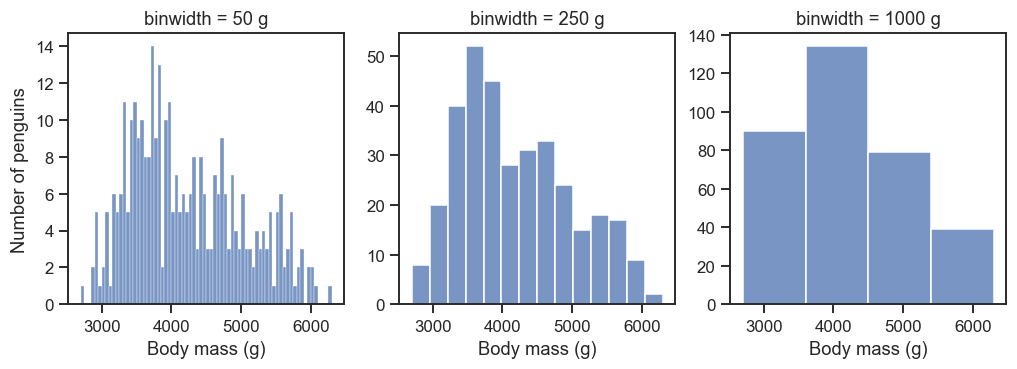
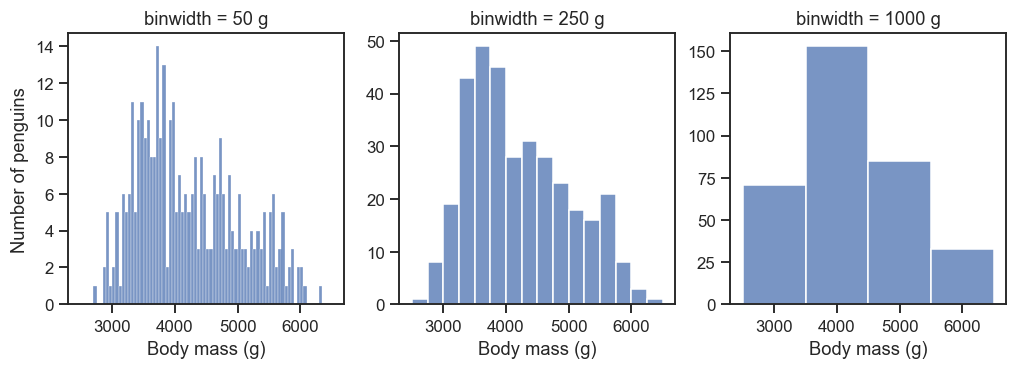
Exact bin widths in Lesson 2; exercise checkers reject raw axis labels
Fixes the two Low findings the previous commit recorded as left alone.

L13 seaborn 0.13 turns binwidth= into a whole number of bins across the
    data's range, so the Lesson 2 panel titled "binwidth = 1000 g" drew
    900 g bins. The example now passes binrange=(2500, 6500), which makes
    all three widths exact, and the text explains the argument and the
    rounding. The instructor guide lists it as a misconception.
L14 Exercises 3.2, 5.1 and 6.1 looked for "mm" in an axis label, which
    the raw column names already contain, and 4.2 ignored its y label.
    Each checker now also rejects an underscore, and the brief of 3.2
    asks for the label its checker expects.

New tests: every exercise that asks for plain-English labels must give a
hint when the raw names are put back on its solution, and each bin-width
panel must draw the width its title names. REVIEW.md marks L13 and L14 as
fixed and records L15 (exercise 2.2 checks neither its palette nor its
printed answer) as left alone. Site and instructor guide rebuilt.
77 tests pass.

diff --git a/docs/02-distributions.html b/docs/02-distributions.html
@@ -56,12 +56,13 @@
 <p>Seaborn picks a bin width for you. It&rsquo;s a reasonable guess, but still a guess. Here are three choices side by side. <code>plt.subplots</code> makes a row of empty Axes, and each seaborn call draws into one of them with <code>ax=</code> (Lesson 6 covers this properly):</p>
 <div class="cell" data-cell><div class="highlight"><pre><span></span><span class="n">fig</span><span class="p">,</span> <span class="n">axes</span> <span class="o">=</span> <span class="n">plt</span><span class="o">.</span><span class="n">subplots</span><span class="p">(</span><span class="mi">1</span><span class="p">,</span> <span class="mi">3</span><span class="p">,</span> <span class="n">figsize</span><span class="o">=</span><span class="p">(</span><span class="mi">11</span><span class="p">,</span> <span class="mf">3.2</span><span class="p">),</span> <span class="n">sharey</span><span class="o">=</span><span class="kc">False</span><span class="p">)</span>
 <span class="k">for</span> <span class="n">ax</span><span class="p">,</span> <span class="n">width</span> <span class="ow">in</span> <span class="nb">zip</span><span class="p">(</span><span class="n">axes</span><span class="p">,</span> <span class="p">[</span><span class="mi">50</span><span class="p">,</span> <span class="mi">250</span><span class="p">,</span> <span class="mi">1000</span><span class="p">]):</span>
-    <span class="n">sns</span><span class="o">.</span><span class="n">histplot</span><span class="p">(</span><span class="n">data</span><span class="o">=</span><span class="n">penguins</span><span class="p">,</span> <span class="n">x</span><span class="o">=</span><span class="s2">&quot;body_mass_g&quot;</span><span class="p">,</span> <span class="n">binwidth</span><span class="o">=</span><span class="n">width</span><span class="p">,</span> <span class="n">ax</span><span class="o">=</span><span class="n">ax</span><span class="p">)</span>
+    <span class="n">sns</span><span class="o">.</span><span class="n">histplot</span><span class="p">(</span><span class="n">data</span><span class="o">=</span><span class="n">penguins</span><span class="p">,</span> <span class="n">x</span><span class="o">=</span><span class="s2">&quot;body_mass_g&quot;</span><span class="p">,</span> <span class="n">binwidth</span><span class="o">=</span><span class="n">width</span><span class="p">,</span>
+                 <span class="n">binrange</span><span class="o">=</span><span class="p">(</span><span class="mi">2500</span><span class="p">,</span> <span class="mi">6500</span><span class="p">),</span> <span class="n">ax</span><span class="o">=</span><span class="n">ax</span><span class="p">)</span>
     <span class="n">ax</span><span class="o">.</span><span class="n">set</span><span class="p">(</span><span class="n">title</span><span class="o">=</span><span class="sa">f</span><span class="s2">&quot;binwidth = </span><span class="si">{</span><span class="n">width</span><span class="si">}</span><span class="s2"> g&quot;</span><span class="p">,</span> <span class="n">xlabel</span><span class="o">=</span><span class="s2">&quot;Body mass (g)&quot;</span><span class="p">,</span> <span class="n">ylabel</span><span class="o">=</span><span class="s2">&quot;&quot;</span><span class="p">)</span>
 <span class="n">axes</span><span class="p">[</span><span class="mi">0</span><span class="p">]</span><span class="o">.</span><span class="n">set_ylabel</span><span class="p">(</span><span class="s2">&quot;Number of penguins&quot;</span><span class="p">)</span>
 </pre></div>
-<script type="application/json" class="cell-data">{"code": "fig, axes = plt.subplots(1, 3, figsize=(11, 3.2), sharey=False)\nfor ax, width in zip(axes, [50, 250, 1000]):\n    sns.histplot(data=penguins, x=\"body_mass_g\", binwidth=width, ax=ax)\n    ax.set(title=f\"binwidth = {width} g\", xlabel=\"Body mass (g)\", ylabel=\"\")\naxes[0].set_ylabel(\"Number of penguins\")"}</script><div class="cell-toolbar"><button type="button" class="btn-ghost" data-action="edit" title="Open this example in a live Python editor">Edit &amp; run</button></div><figure class="cell-figure"><img src="img/02-binwidths.png" alt="Three histograms of body mass: 50 g bins look noisy, 250 g bins show two humps, 1,000 g bins hide the shape entirely." loading="lazy"></figure><div class="cell-live"></div></div>
-<p>Narrow bins show noise. Very wide bins wash out the two humps. Try a few widths, and pick one that shows real structure without inventing any. You can set <code>binwidth=</code> or <code>bins=</code> (a count).</p>
+<script type="application/json" class="cell-data">{"code": "fig, axes = plt.subplots(1, 3, figsize=(11, 3.2), sharey=False)\nfor ax, width in zip(axes, [50, 250, 1000]):\n    sns.histplot(data=penguins, x=\"body_mass_g\", binwidth=width,\n                 binrange=(2500, 6500), ax=ax)\n    ax.set(title=f\"binwidth = {width} g\", xlabel=\"Body mass (g)\", ylabel=\"\")\naxes[0].set_ylabel(\"Number of penguins\")"}</script><div class="cell-toolbar"><button type="button" class="btn-ghost" data-action="edit" title="Open this example in a live Python editor">Edit &amp; run</button></div><figure class="cell-figure"><img src="img/02-binwidths.png" alt="Three histograms of body mass: 50 g bins look noisy, 250 g bins show two humps, 1,000 g bins hide the shape entirely." loading="lazy"></figure><div class="cell-live"></div></div>
+<p>Narrow bins show noise. Very wide bins wash out the two humps. Try a few widths, and pick one that shows real structure without inventing any. You can set <code>binwidth=</code> or <code>bins=</code> (a count). <code>binrange=</code> pins where the first bin starts and the last one ends. Without it, seaborn fits a whole number of bins between the smallest and largest value, so the width you get is only close to the one you asked for: <code>binwidth=1000</code> on its own would draw four 900 g bins here.</p>
 <h2 id="compare-groups-layer-dont-stack">Compare groups: layer, don&rsquo;t stack</h2>
 <div class="cell" data-cell><div class="highlight"><pre><span></span><span class="n">ax</span> <span class="o">=</span> <span class="n">sns</span><span class="o">.</span><span class="n">histplot</span><span class="p">(</span><span class="n">data</span><span class="o">=</span><span class="n">penguins</span><span class="p">,</span> <span class="n">x</span><span class="o">=</span><span class="s2">&quot;body_mass_g&quot;</span><span class="p">,</span> <span class="n">hue</span><span class="o">=</span><span class="s2">&quot;species&quot;</span><span class="p">,</span>
                   <span class="n">palette</span><span class="o">=</span><span class="n">PENGUIN_COLORS</span><span class="p">,</span> <span class="n">multiple</span><span class="o">=</span><span class="s2">&quot;stack&quot;</span><span class="p">)</span>

diff --git a/docs/06-polish.html b/docs/06-polish.html
@@ -233,7 +233,7 @@ ax = sns.scatterplot(data=penguins, x=&quot;bill_length_mm&quot;, y=&quot;bill_d
 <figure class="cell-figure"><img src="img/sol-6.1.png" alt="Solution chart for exercise 6.1" loading="lazy"></figure>
     <button type="button" class="btn-ghost" data-action="load-solution">Load solution into editor</button>
   </details>
-  <script type="application/json" class="cell-data">{"starter": "# This chart works but says nothing. Make it deliberate:\n#  - back to the course's quiet theme: sns.set_theme(style=\"ticks\")\n#  - PENGUIN_COLORS for species, and drop the style= and size= encodings\n#  - no legend (label the species directly with ax.text if you like)\n#  - axis labels in plain English with units, and a title that states a finding\n#  - remove the top and right spines with sns.despine()\nsns.set_theme(style=\"darkgrid\")\nax = sns.scatterplot(data=penguins, x=\"bill_length_mm\", y=\"bill_depth_mm\",\n                     hue=\"species\", style=\"island\", size=\"body_mass_g\", palette=\"hsv\")", "solution": "sns.set_theme(style=\"ticks\")\nax = sns.scatterplot(data=penguins, x=\"bill_length_mm\", y=\"bill_depth_mm\",\n                     hue=\"species\", palette=PENGUIN_COLORS, legend=False)\nfor species, (x, y) in {\"Adelie\": (33, 21.6), \"Chinstrap\": (52, 21.2),\n                        \"Gentoo\": (54, 14.0)}.items():\n    ax.text(x, y, species, color=PENGUIN_COLORS[species], fontweight=\"bold\")\nax.set(xlabel=\"Bill length (mm)\", ylabel=\"Bill depth (mm)\",\n       title=\"Each species has a bill shape of its own\")\nsns.despine()", "check": "ax = chart_axes()[0]\npts = points(ax)\nassert abs(pts[:, 0].mean() - penguins[\"bill_length_mm\"].mean()) < 0.5, \"Keep bill_length_mm on x and bill_depth_mm on y.\"\nassert near_color(PENGUIN_COLORS[\"Gentoo\"], colors_used(ax)), \"Swap the rainbow for palette=PENGUIN_COLORS.\"\nsizes = set().union(*[set(c.get_sizes()) for c in ax.collections])\nassert len(sizes) == 1, \"Drop size= - point size shouldn't encode anything here.\"\nassert ax.get_legend() is None, \"Remove the legend with legend=False (direct labels are optional).\"\nassert \"mm\" in ax.get_xlabel() and \"mm\" in ax.get_ylabel(), \"Use plain-English axis labels with units.\"\nassert len(ax.get_title()) >= 15, \"Add a title that states a finding.\"\nassert tuple(ax.get_facecolor()[:3]) == (1.0, 1.0, 1.0), \"Switch back to the quiet theme first: sns.set_theme(style='ticks').\"\nassert not ax.spines[\"top\"].get_visible() and not ax.spines[\"right\"].get_visible(), \"Call sns.despine() to remove the top and right spines.\"\nprint(\"From noise to message. Compare it with the starter - same data, very different chart.\")"}</script>
+  <script type="application/json" class="cell-data">{"starter": "# This chart works but says nothing. Make it deliberate:\n#  - back to the course's quiet theme: sns.set_theme(style=\"ticks\")\n#  - PENGUIN_COLORS for species, and drop the style= and size= encodings\n#  - no legend (label the species directly with ax.text if you like)\n#  - axis labels in plain English with units, and a title that states a finding\n#  - remove the top and right spines with sns.despine()\nsns.set_theme(style=\"darkgrid\")\nax = sns.scatterplot(data=penguins, x=\"bill_length_mm\", y=\"bill_depth_mm\",\n                     hue=\"species\", style=\"island\", size=\"body_mass_g\", palette=\"hsv\")", "solution": "sns.set_theme(style=\"ticks\")\nax = sns.scatterplot(data=penguins, x=\"bill_length_mm\", y=\"bill_depth_mm\",\n                     hue=\"species\", palette=PENGUIN_COLORS, legend=False)\nfor species, (x, y) in {\"Adelie\": (33, 21.6), \"Chinstrap\": (52, 21.2),\n                        \"Gentoo\": (54, 14.0)}.items():\n    ax.text(x, y, species, color=PENGUIN_COLORS[species], fontweight=\"bold\")\nax.set(xlabel=\"Bill length (mm)\", ylabel=\"Bill depth (mm)\",\n       title=\"Each species has a bill shape of its own\")\nsns.despine()", "check": "ax = chart_axes()[0]\npts = points(ax)\nassert abs(pts[:, 0].mean() - penguins[\"bill_length_mm\"].mean()) < 0.5, \"Keep bill_length_mm on x and bill_depth_mm on y.\"\nassert near_color(PENGUIN_COLORS[\"Gentoo\"], colors_used(ax)), \"Swap the rainbow for palette=PENGUIN_COLORS.\"\nsizes = set().union(*[set(c.get_sizes()) for c in ax.collections])\nassert len(sizes) == 1, \"Drop size= - point size shouldn't encode anything here.\"\nassert ax.get_legend() is None, \"Remove the legend with legend=False (direct labels are optional).\"\nassert \"mm\" in ax.get_xlabel() and \"mm\" in ax.get_ylabel() and \"_\" not in ax.get_xlabel() + ax.get_ylabel(), \"Use plain-English axis labels with units, e.g. 'Bill length (mm)'.\"\nassert len(ax.get_title()) >= 15, \"Add a title that states a finding.\"\nassert tuple(ax.get_facecolor()[:3]) == (1.0, 1.0, 1.0), \"Switch back to the quiet theme first: sns.set_theme(style='ticks').\"\nassert not ax.spines[\"top\"].get_visible() and not ax.spines[\"right\"].get_visible(), \"Call sns.despine() to remove the top and right spines.\"\nprint(\"From noise to message. Compare it with the starter - same data, very different chart.\")"}</script>
 </div>
 
 

diff --git a/docs/03-categories.html b/docs/03-categories.html
@@ -203,6 +203,7 @@ ax = sns.barplot(data=penguins, x=&quot;species&quot;, y=&quot;flipper_length_mm
   <textarea class="cell-editor" rows="6" spellcheck="false" autocapitalize="off"
     aria-label="Code editor for exercise 3.2"># Box plot of bill_depth_mm by species (PENGUIN_COLORS, no legend),
 # with every penguin overlaid as small black dots using stripplot(ax=ax).
+# Label the y-axis in plain English, with units.
 ax = sns.boxplot(data=penguins, x=&quot;species&quot;, y=&quot;bill_depth_mm&quot;)</textarea>
   <div class="cell-toolbar">
     <button type="button" class="btn-primary" data-action="check">Run &amp; check</button>
@@ -220,7 +221,7 @@ ax = sns.boxplot(data=penguins, x=&quot;species&quot;, y=&quot;bill_depth_mm&quo
 <figure class="cell-figure"><img src="img/sol-3.2.png" alt="Solution chart for exercise 3.2" loading="lazy"></figure>
     <button type="button" class="btn-ghost" data-action="load-solution">Load solution into editor</button>
   </details>
-  <script type="application/json" class="cell-data">{"starter": "# Box plot of bill_depth_mm by species (PENGUIN_COLORS, no legend),\n# with every penguin overlaid as small black dots using stripplot(ax=ax).\nax = sns.boxplot(data=penguins, x=\"species\", y=\"bill_depth_mm\")", "solution": "ax = sns.boxplot(data=penguins, x=\"species\", y=\"bill_depth_mm\",\n                 hue=\"species\", palette=PENGUIN_COLORS, legend=False, fliersize=0)\nsns.stripplot(data=penguins, x=\"species\", y=\"bill_depth_mm\",\n              color=\"black\", size=3, alpha=0.5, ax=ax)\nax.set(xlabel=\"\", ylabel=\"Bill depth (mm)\", title=\"Gentoos have the shallowest bills\")", "check": "ax = chart_axes()[0]\nassert len(ax.patches) >= 3, \"Draw a box plot first.\"\npts = points(ax)\nassert len(pts) > 300, \"Overlay every penguin with sns.stripplot(..., ax=ax).\"\nassert near_color(PENGUIN_COLORS[\"Adelie\"], colors_used(ax), tol=0.15), \"Color the boxes by species: hue='species', palette=PENGUIN_COLORS.\"\nassert ax.get_legend() is None, \"The species names are already on the axis - pass legend=False.\"\nassert \"mm\" in ax.get_ylabel(), \"Label the y-axis with units.\"\nprint(\"Box for the summary, dots for the truth. Gentoo bills are clearly shallower.\")"}</script>
+  <script type="application/json" class="cell-data">{"starter": "# Box plot of bill_depth_mm by species (PENGUIN_COLORS, no legend),\n# with every penguin overlaid as small black dots using stripplot(ax=ax).\n# Label the y-axis in plain English, with units.\nax = sns.boxplot(data=penguins, x=\"species\", y=\"bill_depth_mm\")", "solution": "ax = sns.boxplot(data=penguins, x=\"species\", y=\"bill_depth_mm\",\n                 hue=\"species\", palette=PENGUIN_COLORS, legend=False, fliersize=0)\nsns.stripplot(data=penguins, x=\"species\", y=\"bill_depth_mm\",\n              color=\"black\", size=3, alpha=0.5, ax=ax)\nax.set(xlabel=\"\", ylabel=\"Bill depth (mm)\", title=\"Gentoos have the shallowest bills\")", "check": "ax = chart_axes()[0]\nassert len(ax.patches) >= 3, \"Draw a box plot first.\"\npts = points(ax)\nassert len(pts) > 300, \"Overlay every penguin with sns.stripplot(..., ax=ax).\"\nassert near_color(PENGUIN_COLORS[\"Adelie\"], colors_used(ax), tol=0.15), \"Color the boxes by species: hue='species', palette=PENGUIN_COLORS.\"\nassert ax.get_legend() is None, \"The species names are already on the axis - pass legend=False.\"\nassert \"_\" not in ax.get_ylabel() and \"mm\" in ax.get_ylabel(), \"Label the y-axis in plain English with units, e.g. 'Bill depth (mm)'.\"\nprint(\"Box for the summary, dots for the truth. Gentoo bills are clearly shallower.\")"}</script>
 </div>
 
 

diff --git a/docs/05-small-multiples.html b/docs/05-small-multiples.html
@@ -164,7 +164,7 @@ g = sns.displot(data=penguins, x=&quot;flipper_length_mm&quot;)</textarea>
 <figure class="cell-figure"><img src="img/sol-5.1.png" alt="Solution chart for exercise 5.1" loading="lazy"></figure>
     <button type="button" class="btn-ghost" data-action="load-solution">Load solution into editor</button>
   </details>
-  <script type="application/json" class="cell-data">{"starter": "# Use displot to draw flipper_length_mm histograms with one COLUMN per\n# species and one ROW per sex. Color by species with PENGUIN_COLORS,\n# hide the legend (the column titles already name species), and set\n# plain-English axis labels.\ng = sns.displot(data=penguins, x=\"flipper_length_mm\")", "solution": "g = sns.displot(data=penguins, x=\"flipper_length_mm\", col=\"species\", row=\"sex\",\n                hue=\"species\", palette=PENGUIN_COLORS, legend=False,\n                binwidth=3, height=2.4, aspect=1.3)\ng.set_axis_labels(\"Flipper length (mm)\", \"Penguins\")\ng.set_titles(\"{col_name} \u00b7 {row_name}\")", "check": "axes = chart_axes()\nassert len(axes) == 6, f\"I expected 6 panels (3 species x 2 sexes) but found {len(axes)}. Use col= and row=.\"\nxlims = {tuple(round(v) for v in ax.get_xlim()) for ax in axes}\nassert len(xlims) == 1, \"Keep the x-axes shared so the panels are comparable.\"\nassert not legend_labels(), \"Drop the legend with legend=False - the panel titles already name the species.\"\nassert near_color(PENGUIN_COLORS[\"Chinstrap\"], set().union(*[colors_used(a) for a in axes]), tol=0.1), \"Color by species: hue='species', palette=PENGUIN_COLORS.\"\nassert any(\"mm\" in ax.get_xlabel() for ax in axes), \"Label the x-axis with units, e.g. g.set_axis_labels('Flipper length (mm)', 'Penguins').\"\nprint(\"Six aligned panels on shared scales: species differences dominate, and males run longer in each.\")"}</script>
+  <script type="application/json" class="cell-data">{"starter": "# Use displot to draw flipper_length_mm histograms with one COLUMN per\n# species and one ROW per sex. Color by species with PENGUIN_COLORS,\n# hide the legend (the column titles already name species), and set\n# plain-English axis labels.\ng = sns.displot(data=penguins, x=\"flipper_length_mm\")", "solution": "g = sns.displot(data=penguins, x=\"flipper_length_mm\", col=\"species\", row=\"sex\",\n                hue=\"species\", palette=PENGUIN_COLORS, legend=False,\n                binwidth=3, height=2.4, aspect=1.3)\ng.set_axis_labels(\"Flipper length (mm)\", \"Penguins\")\ng.set_titles(\"{col_name} \u00b7 {row_name}\")", "check": "axes = chart_axes()\nassert len(axes) == 6, f\"I expected 6 panels (3 species x 2 sexes) but found {len(axes)}. Use col= and row=.\"\nxlims = {tuple(round(v) for v in ax.get_xlim()) for ax in axes}\nassert len(xlims) == 1, \"Keep the x-axes shared so the panels are comparable.\"\nassert not legend_labels(), \"Drop the legend with legend=False - the panel titles already name the species.\"\nassert near_color(PENGUIN_COLORS[\"Chinstrap\"], set().union(*[colors_used(a) for a in axes]), tol=0.1), \"Color by species: hue='species', palette=PENGUIN_COLORS.\"\nassert any(\"mm\" in ax.get_xlabel() and \"_\" not in ax.get_xlabel() for ax in axes), \"Label the x-axis in plain English with units, e.g. g.set_axis_labels('Flipper length (mm)', 'Penguins').\"\nprint(\"Six aligned panels on shared scales: species differences dominate, and males run longer in each.\")"}</script>
 </div>
 
 

diff --git a/docs/04-relationships.html b/docs/04-relationships.html
@@ -180,7 +180,7 @@ g = sns.lmplot(data=penguins, x=&quot;bill_depth_mm&quot;, y=&quot;body_mass_g&q
 <figure class="cell-figure"><img src="img/sol-4.2.png" alt="Solution chart for exercise 4.2" loading="lazy"></figure>
     <button type="button" class="btn-ghost" data-action="load-solution">Load solution into editor</button>
   </details>
-  <script type="application/json" class="cell-data">{"starter": "# Use lmplot to fit body_mass_g (y) against bill_depth_mm (x),\n# with one colored fit per species (PENGUIN_COLORS) and labeled axes.\ng = sns.lmplot(data=penguins, x=\"bill_depth_mm\", y=\"body_mass_g\")", "solution": "g = sns.lmplot(data=penguins, x=\"bill_depth_mm\", y=\"body_mass_g\",\n               hue=\"species\", palette=PENGUIN_COLORS, height=4.5, aspect=1.3)\ng.set_axis_labels(\"Bill depth (mm)\", \"Body mass (g)\")\ng.legend.set_title(\"Species\")", "check": "ax = chart_axes()[0]\nassert {\"Adelie\", \"Chinstrap\", \"Gentoo\"} <= set(legend_labels()), \"Fit one line per species with hue='species'.\"\nassert len(ax.lines) >= 3, \"I expected three regression lines.\"\nassert near_color(PENGUIN_COLORS[\"Gentoo\"], colors_used(ax)), \"Use palette=PENGUIN_COLORS.\"\nassert \"_\" not in ax.get_xlabel() and \"mm\" in ax.get_xlabel(), \"Label the axes in plain English with units: g.set_axis_labels(...).\"\nprint(\"Three upward slopes - within species, deeper bills do go with heavier birds.\")"}</script>
+  <script type="application/json" class="cell-data">{"starter": "# Use lmplot to fit body_mass_g (y) against bill_depth_mm (x),\n# with one colored fit per species (PENGUIN_COLORS) and labeled axes.\ng = sns.lmplot(data=penguins, x=\"bill_depth_mm\", y=\"body_mass_g\")", "solution": "g = sns.lmplot(data=penguins, x=\"bill_depth_mm\", y=\"body_mass_g\",\n               hue=\"species\", palette=PENGUIN_COLORS, height=4.5, aspect=1.3)\ng.set_axis_labels(\"Bill depth (mm)\", \"Body mass (g)\")\ng.legend.set_title(\"Species\")", "check": "ax = chart_axes()[0]\nassert {\"Adelie\", \"Chinstrap\", \"Gentoo\"} <= set(legend_labels()), \"Fit one line per species with hue='species'.\"\nassert len(ax.lines) >= 3, \"I expected three regression lines.\"\nassert near_color(PENGUIN_COLORS[\"Gentoo\"], colors_used(ax)), \"Use palette=PENGUIN_COLORS.\"\nxlabel, ylabel = ax.get_xlabel(), ax.get_ylabel()\nassert \"mm\" in xlabel and ylabel.strip() and \"_\" not in xlabel + ylabel, \"Label both axes in plain English with units: g.set_axis_labels(...).\"\nprint(\"Three upward slopes - within species, deeper bills do go with heavier birds.\")"}</script>
 </div>
 
 

diff --git a/docs/instructor-guide.html b/docs/instructor-guide.html
@@ -169,7 +169,7 @@
 <li><strong>Core idea:</strong> look at the shape before you summarize it.</li>
 <li><strong>Live-code:</strong> the three bin widths, then ask &ldquo;which one is right?&rdquo; The point is that there&rsquo;s no single right answer, only an honest one.</li>
 <li><strong>Discussion:</strong> why does <code>common_norm=True</code> make Chinstraps look rare in a KDE? (Because they <em>are</em> rarer. The question is whether you want to compare shapes or counts.)</li>
-<li><strong>Misconceptions:</strong> reading a KDE&rsquo;s y-axis as a count. Thinking ECDFs are &ldquo;advanced.&rdquo; Learners usually find them the easiest to <em>read</em> once shown, so do the &ldquo;follow the dashed line up&rdquo; exercise together.</li>
+<li><strong>Misconceptions:</strong> reading a KDE&rsquo;s y-axis as a count. Expecting <code>binwidth=</code> to be exact: seaborn fits a whole number of bins to the data&rsquo;s range unless <code>binrange=</code> is given, so <code>binwidth=3</code> on flipper length draws 2.95 mm bins. Thinking ECDFs are &ldquo;advanced.&rdquo; Learners usually find them the easiest to <em>read</em> once shown, so do the &ldquo;follow the dashed line up&rdquo; exercise together.</li>
 <li><strong>Few connection:</strong> common baselines. The stacked histogram is a good &ldquo;spot the problem&rdquo; moment.</li>
 </ul>
 <h3 id="lesson-3-comparing-categories">Lesson 3 - Comparing categories</h3>

diff --git a/tests/test_site.py b/tests/test_site.py
@@ -249,6 +249,53 @@ def test_exercise_2_1_only_accepts_step_outlines():
     assert result["check_ok"] is True, result["check_message"]
 
 
+# Every exercise that asks for plain-English axis labels, with a line that puts seaborn's raw
+# column names back on the solution's axes. The checker has to notice.
+RAW_LABELS = {
+    ("01-first-plot", "1.1"): 'ax.set(xlabel="bill_length_mm", ylabel="flipper_length_mm")',
+    ("02-distributions", "2.1"): 'ax.set(xlabel="flipper_length_mm")',
+    ("03-categories", "3.2"): 'ax.set(ylabel="bill_depth_mm")',
+    ("04-relationships", "4.2"): 'g.set_axis_labels("Bill depth (mm)", "body_mass_g")',
+    ("05-small-multiples", "5.1"): 'g.set_axis_labels("flipper_length_mm", "Count")',
+    ("06-polish", "6.1"): 'ax.set(xlabel="bill_length_mm", ylabel="bill_depth_mm")',
+}
+
+
+@pytest.mark.parametrize("slug, ex_id", sorted(RAW_LABELS))
+def test_exercises_reject_raw_column_names_as_axis_labels(slug, ex_id):
+    """`flipper_length_mm` contains "mm", so a unit check alone passes a chart nobody labelled."""
+    import build_site
+    import runner
+
+    _, blocks = build_site.split_blocks((ROOT / "content" / f"{slug}.md").read_text(encoding="utf-8"))
+    setup = next(b.body for b in blocks if b.kind == "setup")
+    solution = next(b.body for b in blocks if b.kind == "solution" and b.opts.get("for") == ex_id)
+    check = next(b.body for b in blocks if b.kind == "check" and b.opts.get("for") == ex_id)
+    result = runner.run_cell(solution + "\n" + RAW_LABELS[(slug, ex_id)], setup=setup, check=check)
+    assert result["error"] is None, result["error"]
+    assert result["check_ok"] is False, f"exercise {ex_id} accepts raw column names as axis labels"
+    assert re.search(r"plain.English", result["check_message"]), result["check_message"]
+
+
+def test_bin_width_panels_draw_the_widths_they_name():
+    """seaborn fits a whole number of bins to the data's range unless binrange= is given,
+    so a panel titled "binwidth = 1000 g" used to draw 900 g bins."""
+    import build_site
+    import runner
+
+    _, blocks = build_site.split_blocks((ROOT / "content" / "02-distributions.md").read_text(encoding="utf-8"))
+    setup = next(b.body for b in blocks if b.kind == "setup")
+    cell = next(b.body for b in blocks if b.opts.get("fig") == "02-binwidths")
+    probe = ("import json\n"
+             "print(json.dumps([[a.get_title(), sorted({round(p.get_width(), 6) for p in a.patches})]"
+             " for a in plt.gcf().axes]))")
+    panels = json.loads(runner.run_cell(cell, setup=setup, check=probe)["check_message"])
+    assert len(panels) == 3
+    for title, widths in panels:
+        named = float(re.search(r"binwidth = (\d+) g", title).group(1))
+        assert widths == [named], f"the panel titled {title!r} draws bins of {widths} g"
+
+
 def _without_carriage_returns(path):
     """File contents with Windows line endings folded, so a checkout's autocrlf setting can't matter."""
     return path.read_bytes().replace(b"\r\n", b"\n")

diff --git a/REVIEW.md b/REVIEW.md
@@ -10,7 +10,8 @@ guide read as assessment instruments.
 The test suite was green before any change (50 passed). Findings are ranked by severity.
 "Fixed" means the fix is in the repository; "left alone" means it is documented here only.
 The High and Medium fixes were made with the review itself. Five of the Low items were fixed
-in a follow-up pass, which also turned up the new Low findings at the end of that section.
+in a follow-up pass. That pass turned up three more Low findings (L13-L15) and fixed two of
+them.
 
 Severity scale:
 
@@ -38,7 +39,8 @@ Severity scale:
 | M10 | Medium | Lesson 4 line-chart alt text claims a steady rise; ragged small-n ends unexplained | Fixed |
 | L1-L3, L10, L11 | Low | Legend titles, "1.3 kg", panel order, HTML-only stale-docs test, lax exercise 2.1 checker | Fixed in a follow-up |
 | L4-L9, L12 | Low | Raw pair-plot labels, box frames, an exam distractor, hover contrast and more | Left alone, see below |
-| L13, L14 | Low | Found in the follow-up: `binwidth=` is approximate; three unit checks pass on raw column names | Left alone, see below |
+| L13, L14 | Low | Found in the follow-up: `binwidth=` is approximate; unit checks pass on raw column names | Fixed in the follow-up |
+| L15 | Low | Found in the follow-up: exercise 2.2 checks neither its palette nor its printed answer | Left alone, see below |
 
 ## High
 
@@ -240,6 +242,23 @@ Fixed in a follow-up pass:
   that each hint is true. The bin width is deliberately not checked (see L13). A new test
   runs seven near misses through the checker.
 
+- **L13. `binwidth=` is approximate in seaborn 0.13** (found during the follow-up).
+  `histplot` turns it into a whole number of bins across the data's range, so in Lesson 2's
+  `02-binwidths` figure the panel titled "binwidth = 250 g" had 257 g bins and the one titled
+  "binwidth = 1000 g" had 900 g bins. Fix: the example passes `binrange=(2500, 6500)`, which
+  makes all three widths exact, and the paragraph underneath says what `binrange=` is for
+  and that seaborn otherwise rounds. The instructor guide lists it as a misconception, and a
+  new test checks that each panel draws the width its title names. Elsewhere the course asks
+  for a width without quoting the result (`binwidth=3` on flipper length draws 2.95 mm
+  bins), which is why exercise 2.1 does not test it.
+- **L14. Unit checks passed on raw column names** (found during the follow-up). Exercises
+  3.2, 5.1 and 6.1 looked for "mm" in an axis label, which `bill_depth_mm`,
+  `flipper_length_mm` and `bill_length_mm` satisfy untouched, so their "label the axes"
+  hints never fired. Exercise 4.2 checked its x label properly but ignored its y label. Fix:
+  each checker now also rejects an underscore, as 1.1 already did, and 3.2's brief asks for
+  the label its checker expects. A new test puts the raw names back on each solution's axes
+  and requires a hint.
+
 Left alone, with reasons:
 
 - **L4. `pairplot` keeps raw axis labels.** The text frames it as an exploration tool, and
@@ -260,19 +279,12 @@ Left alone, with reasons:
 
 Found during the follow-up pass, and left alone:
 
-- **L13. `binwidth=` is approximate in seaborn 0.13.** `histplot` turns it into a whole
-  number of bins across the data's range, so `binwidth=3` on flipper length draws 2.95 mm
-  bins. In Lesson 2's `02-binwidths` figure the panel titled "binwidth = 250 g" has 257 g
-  bins and the one titled "binwidth = 1000 g" has 900 g bins, and the alt text repeats the
-  nominal widths. The lesson's point (too narrow, sensible, too wide) survives. Passing
-  `binrange=(2500, 6500)` would make all three widths exact, at the cost of one more
-  argument in an early example; a sentence saying that seaborn rounds would also do.
-- **L14. Three more unit checks pass on raw column names.** Exercises 3.2, 5.1 and 6.1
-  look for "mm" in an axis label, which `bill_depth_mm`, `flipper_length_mm` and
-  `bill_length_mm` satisfy untouched, so their "label the axes" hints never fire. The
-  briefs of 5.1 and 6.1 ask for plain-English labels; 3.2's does not, so there the
-  assertion is dead rather than lax. The condition used in 1.1, 2.1 and 4.2
-  (`"_" not in label`) would fix each.
+- **L15. Exercise 2.2 checks neither its palette nor its printed answer.** The brief asks
+  for `PENGUIN_COLORS`, and the success message talks about "the purple line", but an ECDF
+  in seaborn's default colors passes. One more assertion
+  (`near_color(PENGUIN_COLORS["Chinstrap"], colors_used(ax))`) would close that. The second
+  task, printing the share of Chinstraps, cannot be checked at all: a checker sees the
+  chart, not what the cell printed.
 
 ## What checked out
 

diff --git a/README.md b/README.md
@@ -50,7 +50,8 @@ python -m http.server -d docs 8000  # preview at http://localhost:8000
 
 - Every example cell runs **without errors or warnings**, and every figure has alt text.
 - Legends are titled in **plain English**, not with seaborn's raw column names. The four deliberate exceptions are listed, with reasons, in the test.
-- Every exercise's **solution passes its checker**, and the **untouched starter does not**, so checks can't be vacuous. Exercise 2.1's near misses (bars, filled steps, a density curve, an ECDF, a missing axis label) must each earn a hint.
+- The bin-width figure in Lesson 2 draws exactly the widths its panel titles name.
+- Every exercise's **solution passes its checker**, and the **untouched starter does not**, so checks can't be vacuous. Exercise 2.1's near misses (bars, filled steps, a density curve, an ECDF, a missing axis label) must each earn a hint, and no exercise that asks for plain-English axis labels accepts seaborn's raw column names.
 - Every lesson's **solutions notebook executes** top to bottom in a real Jupyter kernel, and **no cell leaves the theme or any other global setting changed** for the cells after it, so notebooks draw what the site shows.
 - All internal links, anchors, images and scripts resolve, and no template or Markdown leaks into the HTML. Design callouts become blockquotes in the notebooks, and every quiz question is a labelled group for screen readers.
 - Every page, notebook, script, stylesheet and data file in `docs/` **matches what the sources produce**, every figure is present, and no leftover figures or notebooks remain, so a stale site can't be committed. (PNG bytes are not compared: they differ between the machine that builds `docs/` and the CI runner.)

diff --git a/content/02-distributions.md b/content/02-distributions.md
@@ -36,12 +36,13 @@ Seaborn picks a bin width for you. It's a reasonable guess, but still a guess. H
 ```python run fig=02-binwidths alt="Three histograms of body mass: 50 g bins look noisy, 250 g bins show two humps, 1,000 g bins hide the shape entirely."
 fig, axes = plt.subplots(1, 3, figsize=(11, 3.2), sharey=False)
 for ax, width in zip(axes, [50, 250, 1000]):
-    sns.histplot(data=penguins, x="body_mass_g", binwidth=width, ax=ax)
+    sns.histplot(data=penguins, x="body_mass_g", binwidth=width,
+                 binrange=(2500, 6500), ax=ax)
     ax.set(title=f"binwidth = {width} g", xlabel="Body mass (g)", ylabel="")
 axes[0].set_ylabel("Number of penguins")
 ```
 
-Narrow bins show noise. Very wide bins wash out the two humps. Try a few widths, and pick one that shows real structure without inventing any. You can set `binwidth=` or `bins=` (a count).
+Narrow bins show noise. Very wide bins wash out the two humps. Try a few widths, and pick one that shows real structure without inventing any. You can set `binwidth=` or `bins=` (a count). `binrange=` pins where the first bin starts and the last one ends. Without it, seaborn fits a whole number of bins between the smallest and largest value, so the width you get is only close to the one you asked for: `binwidth=1000` on its own would draw four 900 g bins here.
 
 ## Compare groups: layer, don't stack
 

diff --git a/content/instructor-guide.md b/content/instructor-guide.md
@@ -70,7 +70,7 @@ Assignment 1 fits after Lesson 3, Assignment 2 after Lesson 5, and Assignment 3 
 - **Core idea:** look at the shape before you summarize it.
 - **Live-code:** the three bin widths, then ask "which one is right?" The point is that there's no single right answer, only an honest one.
 - **Discussion:** why does `common_norm=True` make Chinstraps look rare in a KDE? (Because they *are* rarer. The question is whether you want to compare shapes or counts.)
-- **Misconceptions:** reading a KDE's y-axis as a count. Thinking ECDFs are "advanced." Learners usually find them the easiest to *read* once shown, so do the "follow the dashed line up" exercise together.
+- **Misconceptions:** reading a KDE's y-axis as a count. Expecting `binwidth=` to be exact: seaborn fits a whole number of bins to the data's range unless `binrange=` is given, so `binwidth=3` on flipper length draws 2.95 mm bins. Thinking ECDFs are "advanced." Learners usually find them the easiest to *read* once shown, so do the "follow the dashed line up" exercise together.
 - **Few connection:** common baselines. The stacked histogram is a good "spot the problem" moment.
 
 ### Lesson 3 - Comparing categories

diff --git a/content/03-categories.md b/content/03-categories.md
@@ -170,6 +170,7 @@ print("Sorted, horizontal, zero-based, consistently colored - a textbook bar cha
 ```python exercise id=3.2 title="Show every penguin's bill depth"
 # Box plot of bill_depth_mm by species (PENGUIN_COLORS, no legend),
 # with every penguin overlaid as small black dots using stripplot(ax=ax).
+# Label the y-axis in plain English, with units.
 ax = sns.boxplot(data=penguins, x="species", y="bill_depth_mm")
 ```
 
@@ -188,7 +189,7 @@ pts = points(ax)
 assert len(pts) > 300, "Overlay every penguin with sns.stripplot(..., ax=ax)."
 assert near_color(PENGUIN_COLORS["Adelie"], colors_used(ax), tol=0.15), "Color the boxes by species: hue='species', palette=PENGUIN_COLORS."
 assert ax.get_legend() is None, "The species names are already on the axis - pass legend=False."
-assert "mm" in ax.get_ylabel(), "Label the y-axis with units."
+assert "_" not in ax.get_ylabel() and "mm" in ax.get_ylabel(), "Label the y-axis in plain English with units, e.g. 'Bill depth (mm)'."
 print("Box for the summary, dots for the truth. Gentoo bills are clearly shallower.")
 ```
 
